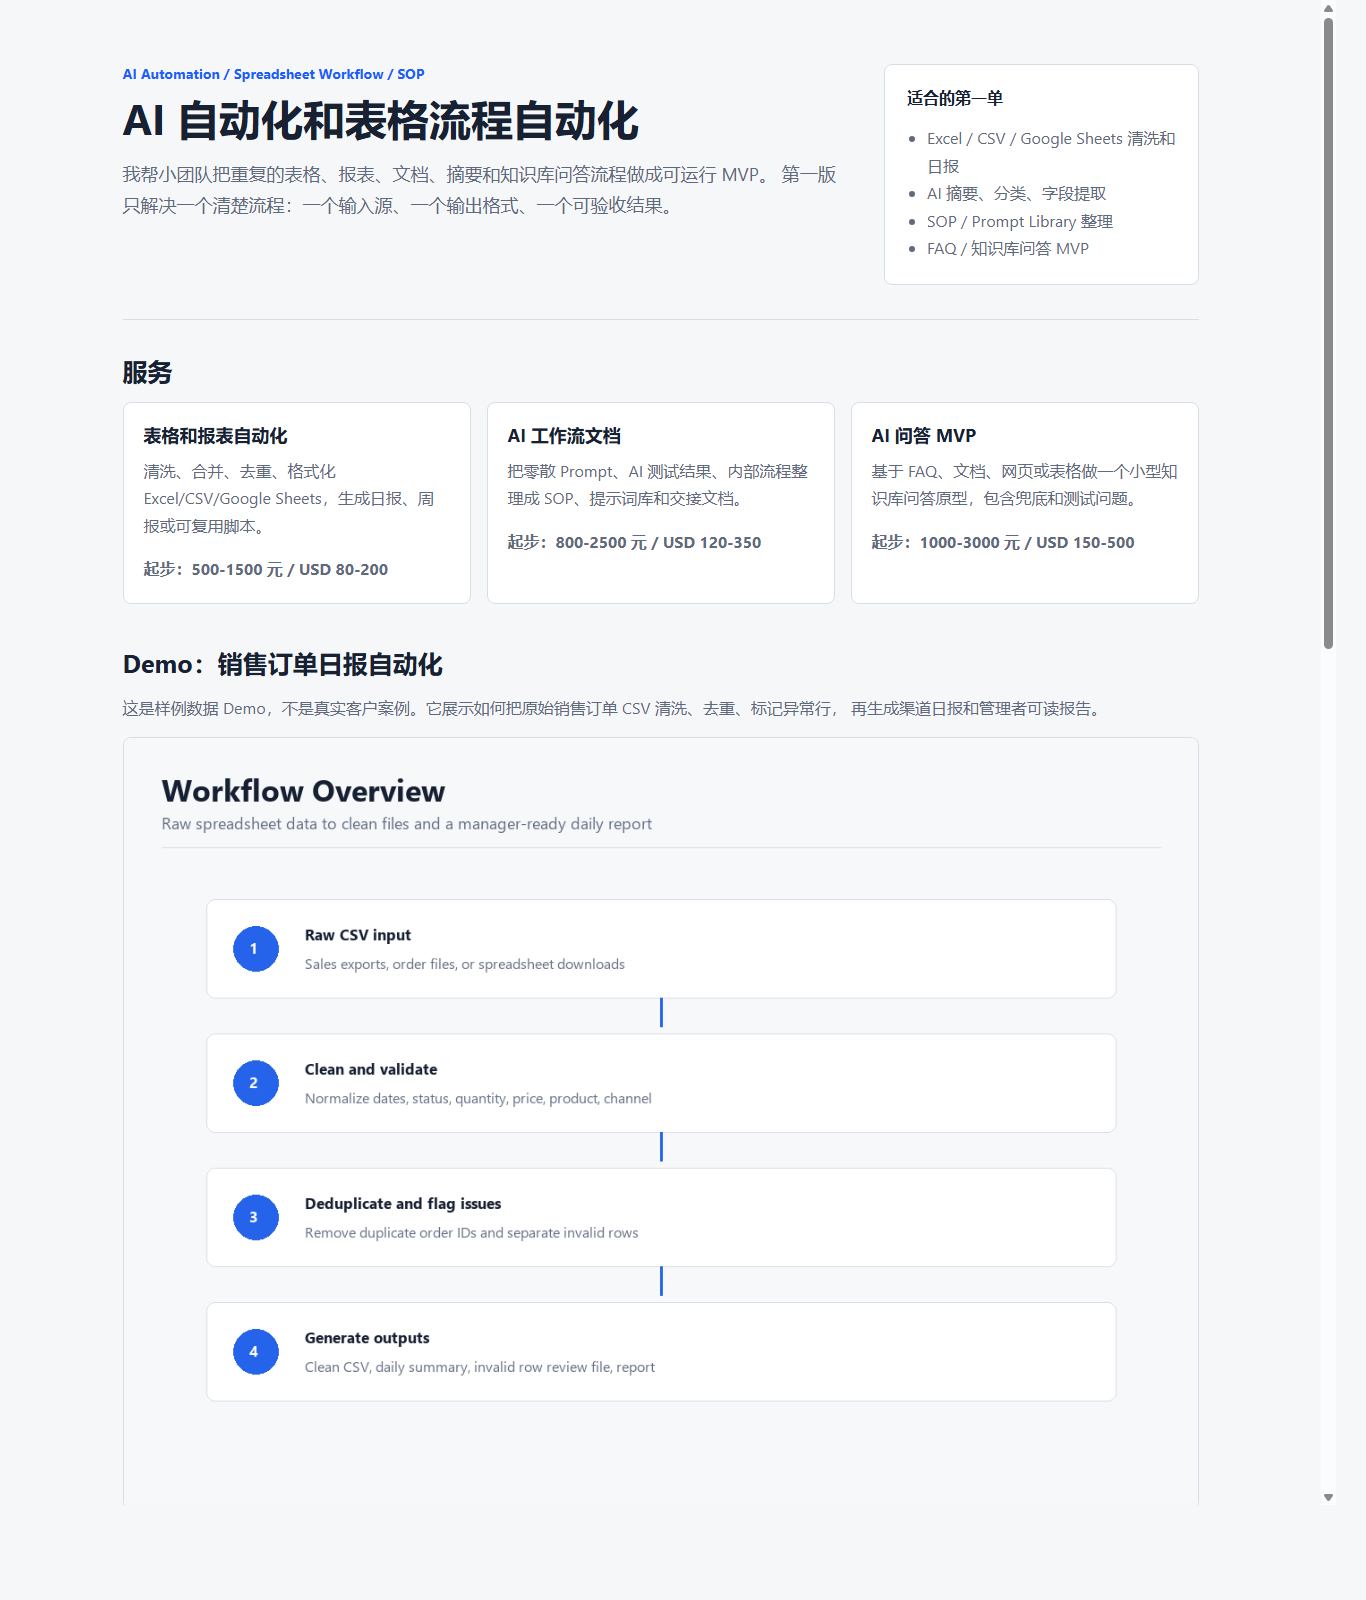
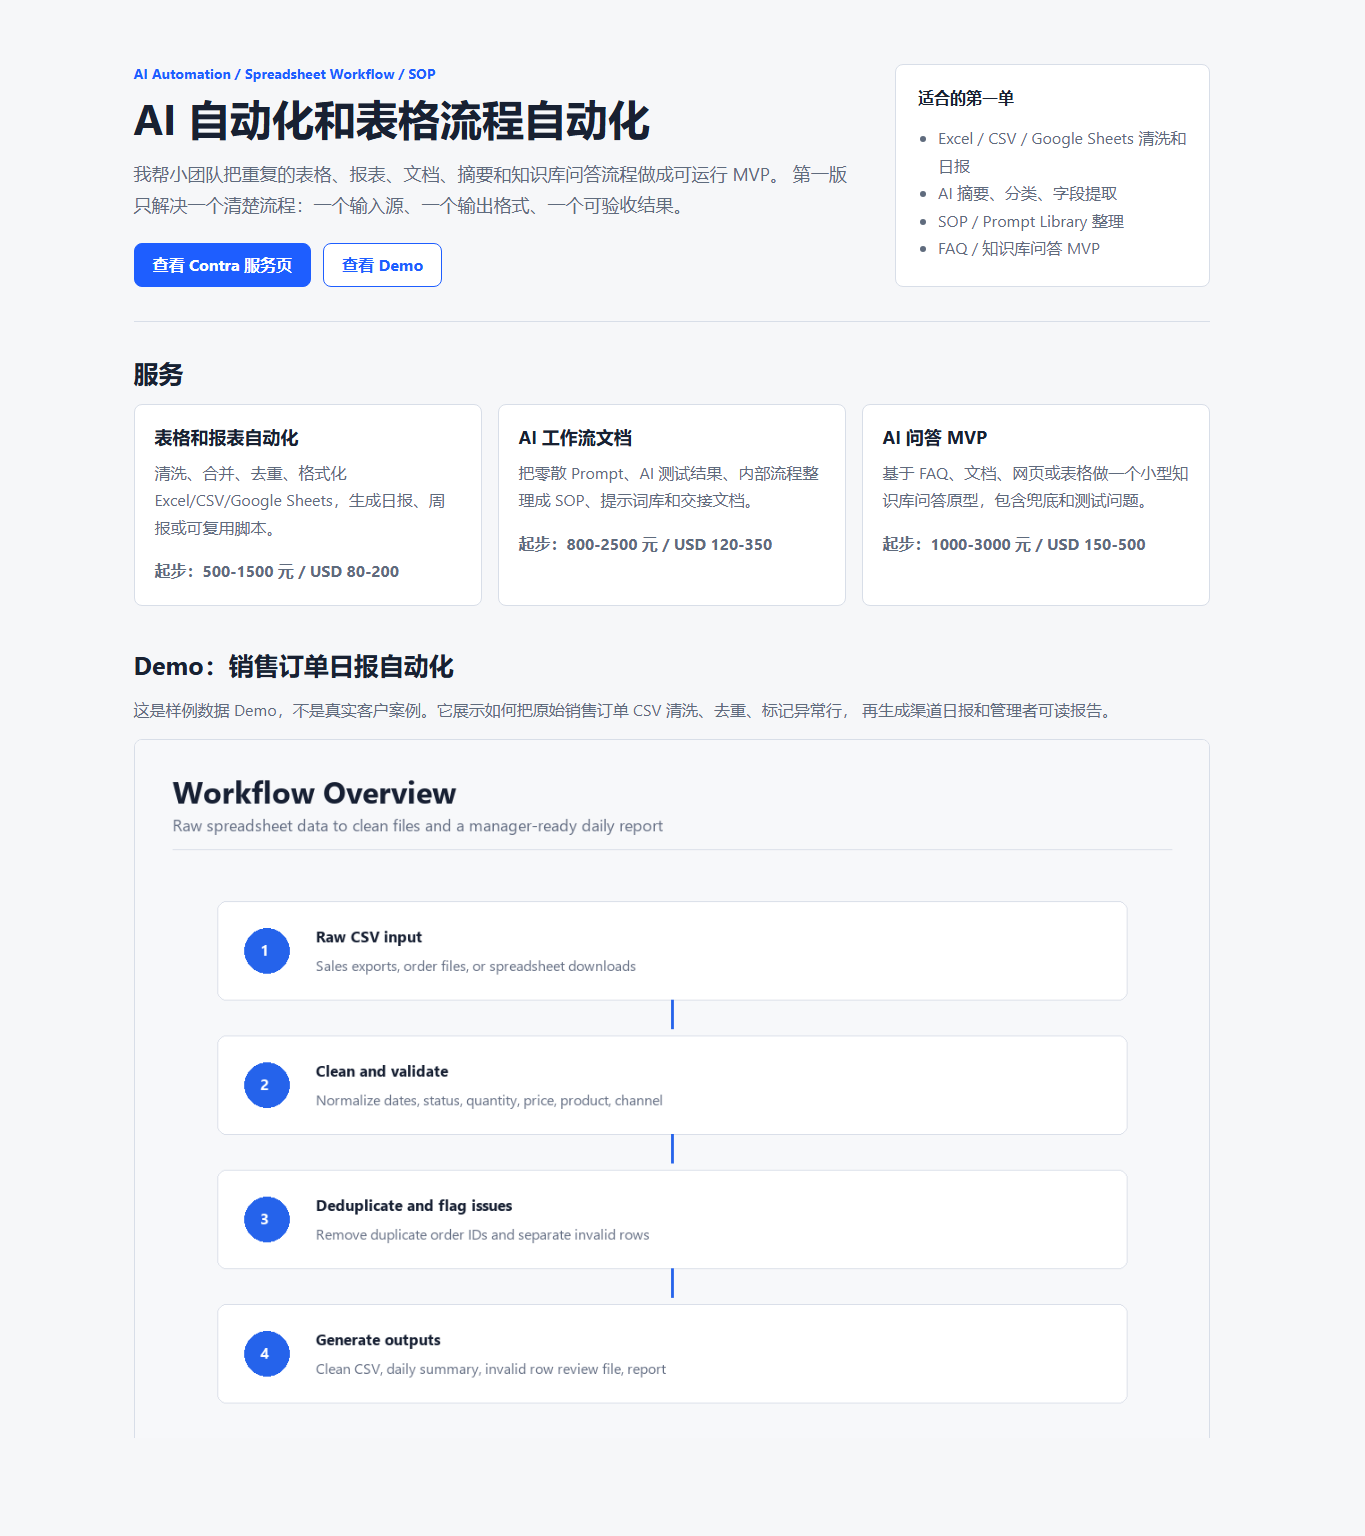
Add Contra service link to portfolio

diff --git a/index.html b/index.html
@@ -16,6 +16,10 @@
           我帮小团队把重复的表格、报表、文档、摘要和知识库问答流程做成可运行 MVP。
           第一版只解决一个清楚流程：一个输入源、一个输出格式、一个可验收结果。
         </p>
+        <div class="hero-actions">
+          <a class="button primary" href="https://contra.com/s/vgN7UPOb-spreadsheet-and-csv-automation" target="_blank" rel="noopener">查看 Contra 服务页</a>
+          <a class="button secondary" href="#demo">查看 Demo</a>
+        </div>
       </div>
       <div class="summary-panel">
         <p class="panel-title">适合的第一单</p>
@@ -28,7 +32,7 @@
       </div>
     </header>
 
-    <section class="band">
+    <section class="band" id="demo">
       <h2>服务</h2>
       <div class="grid">
         <article class="card">
@@ -86,6 +90,7 @@
     <section class="cta">
       <h2>开始前请提供</h2>
       <p>当前人工流程、一个样例输入、一个期望输出、运行频率、预算范围。</p>
+      <a class="button primary cta-link" href="https://contra.com/s/vgN7UPOb-spreadsheet-and-csv-automation" target="_blank" rel="noopener">从 Contra 服务页联系</a>
     </section>
   </main>
 </body>

diff --git a/styles.css b/styles.css
@@ -83,6 +83,35 @@ li {
   font-size: 18px;
 }
 
+.hero-actions {
+  display: flex;
+  flex-wrap: wrap;
+  gap: 12px;
+  margin-top: 22px;
+}
+
+.button {
+  display: inline-flex;
+  align-items: center;
+  justify-content: center;
+  min-height: 44px;
+  padding: 0 18px;
+  border: 1px solid var(--accent);
+  border-radius: 8px;
+  color: var(--accent);
+  font-weight: 700;
+  text-decoration: none;
+}
+
+.button.primary {
+  background: var(--accent);
+  color: #ffffff;
+}
+
+.button.secondary {
+  background: var(--panel);
+}
+
 .summary-panel,
 .card,
 .cta {
@@ -157,6 +186,10 @@ ol {
 
 .cta p {
   margin-bottom: 0;
+}
+
+.cta-link {
+  margin-top: 18px;
 }
 
 @media (max-width: 820px) {
